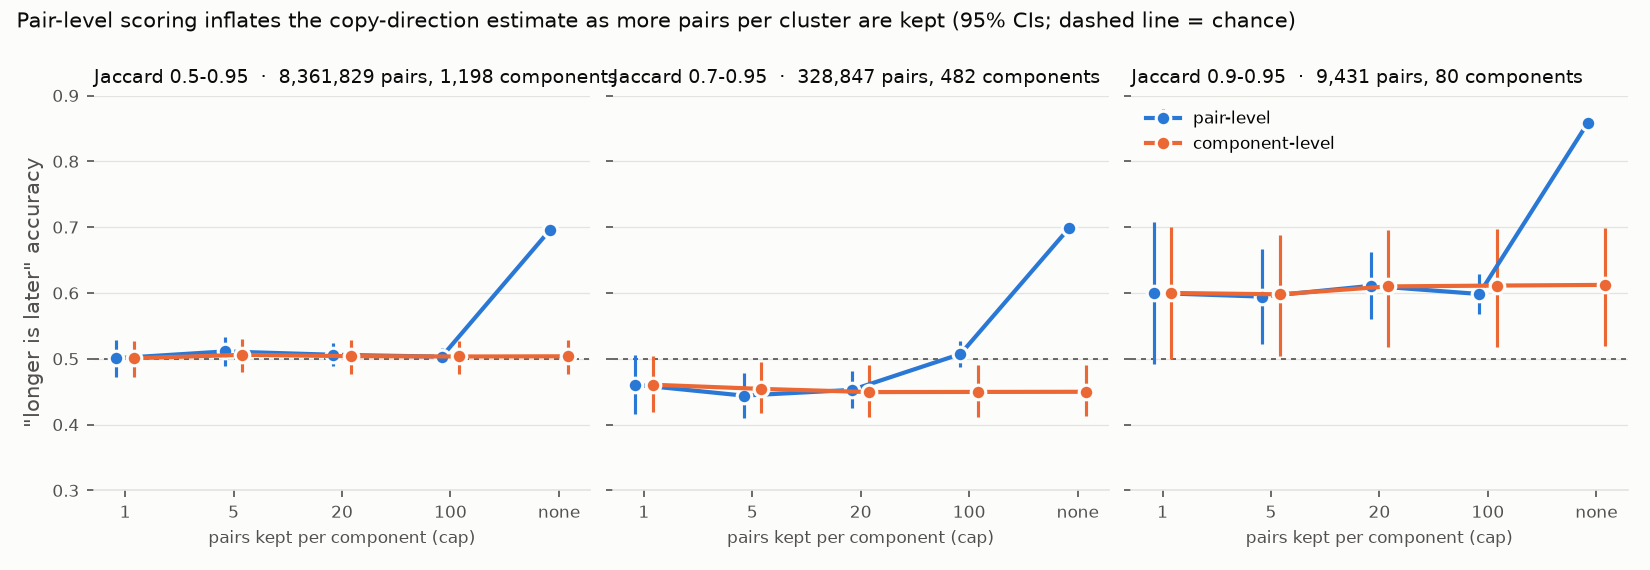
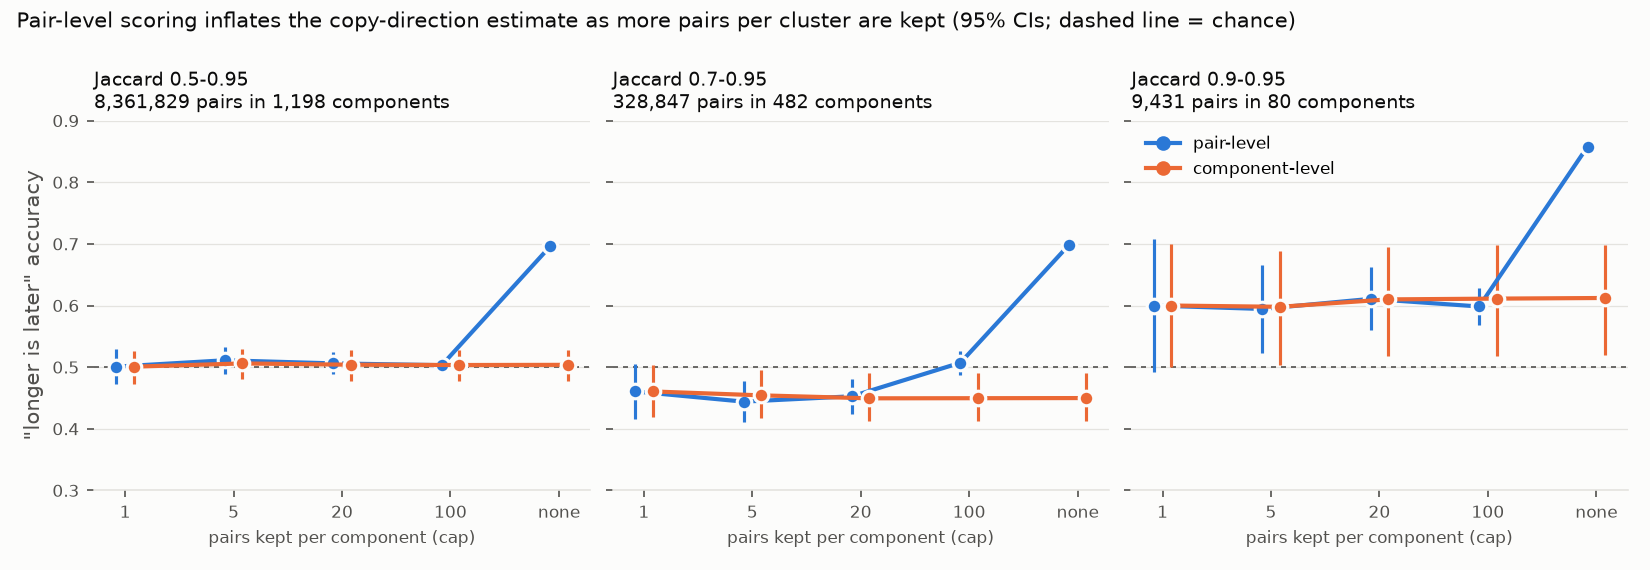
E34, E35, E36, FIG1: results, figures and log entries

diff --git a/experiments/FIG1_naive_vs_proper.py b/experiments/FIG1_naive_vs_proper.py
@@ -14,6 +14,7 @@ from __future__ import annotations
 
 import json
 import sys
+import textwrap
 from pathlib import Path
 from typing import Any
 
@@ -53,13 +54,13 @@ def panel(ax, title: str, ylabel: str, items: list[tuple[str, str, float, list[f
     """
     ax.set_facecolor(C_SURFACE)
     ax.axhline(0.5, color=C_TEXT2, linewidth=0.8, linestyle=(0, (3, 3)))
-    ax.text(1.45, 0.5, "chance", fontsize=7, color=C_TEXT2, va="bottom", ha="right")
+    ax.text(-0.45, 0.505, "chance", fontsize=7, color=C_TEXT2, va="bottom", ha="left")
     for x, (lab, sub, est, ci, col) in enumerate(items):
         ax.errorbar([x], [est], yerr=[[est - ci[0]], [ci[1] - est]], color=col, marker="o", markersize=9,
                     markeredgecolor=C_SURFACE, markeredgewidth=1.5, elinewidth=2, capsize=0)
         ax.text(x + 0.08, est, f"{est:.3f}\n[{ci[0]:.3f}, {ci[1]:.3f}]", fontsize=7.5, color=C_TEXT2, va="center")
     ax.set_xticks(range(len(items)), [f"{lab}\n{sub}" for lab, sub, *_ in items], fontsize=7.5, color=C_TEXT2)
-    ax.set_xlim(-0.5, len(items) - 0.5 + 0.5)
+    ax.set_xlim(-0.5, len(items) - 0.5 + 0.4)
     ax.set_ylim(0.3, 1.02)
     ax.set_ylabel(ylabel, color=C_TEXT2, fontsize=9)
     ax.set_title(title, loc="left", fontsize=10, color=C_TEXT)
@@ -69,7 +70,7 @@ def panel(ax, title: str, ylabel: str, items: list[tuple[str, str, float, list[f
     for s in ("top", "right", "left"):
         ax.spines[s].set_visible(False)
     ax.spines["bottom"].set_color(C_GRID)
-    ax.text(0.0, -0.32, note, transform=ax.transAxes, fontsize=7, color=C_TEXT2, va="top")
+    ax.text(0.0, -0.30, textwrap.fill(note, 80), transform=ax.transAxes, fontsize=7, color=C_TEXT2, va="top")
 
 
 def main() -> None:
@@ -78,24 +79,25 @@ def main() -> None:
     rows = {str(r["cap"]): r for r in e34["grid"]["0.5-0.95"]}
     naive_d, proper_d = rows["none"], rows["20"]
     m37, m38 = e37["metrics"]["gbt"], e38["feature_sets"]["a_full"]["pooled"]
-    fig, axes = plt.subplots(1, 2, figsize=(11, 4.6), facecolor=C_SURFACE)
+    fig, axes = plt.subplots(1, 2, figsize=(11, 5.6), facecolor=C_SURFACE)
     panel(axes[0], "Copy direction: \"longer post is later\"", "pairwise accuracy",
-          [("Naive", f"pair-level, {naive_d['pairs']:,} pairs", naive_d["pair_level"]["accuracy"], naive_d["pair_level"]["ci"], C_NAIVE),
-           ("Cluster-aware", f"component-level, {proper_d['components']:,} components",
+          [("Naive", f"pair-level\n{naive_d['pairs']:,} pairs", naive_d["pair_level"]["accuracy"], naive_d["pair_level"]["ci"], C_NAIVE),
+           ("Cluster-aware", f"component-level\n{proper_d['components']:,} components",
             proper_d["component_level"]["macro"], proper_d["component_level"]["ci"], C_PROPER)],
           f"Known null (times permuted within clusters, {e35['draws']:,} draws): naive analysis 'significant' in "
-          f"{100 * e35['pair_level']['false_positive_rate']:.1f}% of draws,\ncluster-aware in "
+          f"{100 * e35['pair_level']['false_positive_rate']:.1f}% of draws, cluster-aware in "
           f"{100 * e35['component_level']['false_positive_rate']:.1f}% (nominal 5%).")
     panel(axes[1], "Coordination monitor (metadata only)", "AUROC",
-          [("Naive", "E37: unmatched activity, unbalanced split", m37["auroc"], m37["auroc_ci"], C_NAIVE),
-           ("Cluster-aware", "E38: matched activity, grouped 5-fold CV", m38["auroc"], m38["auroc_ci"], C_PROPER)],
+          [("Naive", "E37: unmatched activity,\nunbalanced split", m37["auroc"], m37["auroc_ci"], C_NAIVE),
+           ("Cluster-aware", "E38: matched activity,\ngrouped 5-fold CV", m38["auroc"], m38["auroc_ci"], C_PROPER)],
           f"Recall at 1% FPR: naive {m37['recall_at_1pct_fpr']:.2f}, cluster-aware {m38['recall_at_1pct_fpr']:.2f}. "
-          f"Cluster-aware CV had only {e38['counts']['cv_coordinated']} coordinated authors;\n"
+          f"Cluster-aware CV had only {e38['counts']['cv_coordinated']} coordinated authors; "
           f"on the held-out large components ({e38['counts']['held_out_coordinated']:,} coordinated) "
           f"AUROC was {e38['feature_sets']['a_full']['held_out']['auroc']:.3f}.")
     fig.suptitle("Naive evaluation of clustered agent text overstates both results (95% CIs)",
                  x=0.01, ha="left", fontsize=11, color=C_TEXT)
-    fig.tight_layout(rect=(0, 0.04, 1, 0.97))
+    fig.tight_layout(rect=(0, 0.02, 1, 0.97))
+    fig.subplots_adjust(bottom=0.30, wspace=0.35)
     FIGURES_DIR.mkdir(parents=True, exist_ok=True)
     fig.savefig(FIGURES_DIR / "FIG1_naive_vs_proper.png", dpi=150, facecolor=C_SURFACE)
     print("figures/FIG1_naive_vs_proper.png")

diff --git a/experiments/E34_inflation_curve.py b/experiments/E34_inflation_curve.py
@@ -84,7 +84,7 @@ def plot_curve(windows: dict[str, list[dict[str, Any]]]) -> str:
         ax.set_xticks(x, labels)
         ax.set_xlabel("pairs kept per component (cap)", color=C_TEXT2, fontsize=8)
         comps = rows[-1]["components"]
-        ax.set_title(f"Jaccard {wlab}  ·  {rows[-1]['pairs']:,} pairs, {comps:,} components",
+        ax.set_title(f"Jaccard {wlab}\n{rows[-1]['pairs']:,} pairs in {comps:,} components",
                      loc="left", fontsize=9, color=C_TEXT)
         ax.tick_params(colors=C_TEXT2, labelsize=8)
         ax.grid(axis="y", color=C_GRID, linewidth=0.6)
@@ -94,7 +94,10 @@ def plot_curve(windows: dict[str, list[dict[str, Any]]]) -> str:
         ax.spines["bottom"].set_color(C_GRID)
     axes[0].set_ylabel('"longer is later" accuracy', color=C_TEXT2)
     axes[0].set_ylim(0.3, 0.9)
-    axes[-1].legend(frameon=False, fontsize=8, loc="upper left")
+    from matplotlib.lines import Line2D
+    handles = [Line2D([], [], color=C_PAIR, marker="o", linewidth=2, label="pair-level"),
+               Line2D([], [], color=C_COMP, marker="o", linewidth=2, label="component-level")]
+    axes[-1].legend(handles=handles, frameon=False, fontsize=8, loc="upper left")
     fig.suptitle("Pair-level scoring inflates the copy-direction estimate as more pairs per cluster are kept "
                  "(95% CIs; dashed line = chance)", x=0.01, ha="left", fontsize=10, color=C_TEXT)
     fig.tight_layout()

diff --git a/EXPERIMENT_LOG.md b/EXPERIMENT_LOG.md
@@ -755,12 +755,50 @@ Global seed: 42.
   (effective n); CI-width ratio = component width / pair width. Headline figure:
   figures/E34_inflation_curve.png, pair-level vs component-level estimate against cap,
   one panel per window.
-- Code: experiments/E34_inflation_curve.py, src/clusters.py @ (filled after commit)
+- Code: experiments/E34_inflation_curve.py, src/clusters.py @ 01d35b4 (figure titles and
+  legend fixed afterwards and the figure redrawn from the saved results; numbers unchanged)
 - Params: windows {0.5, 0.7, 0.9}-0.95; caps {1, 5, 20, 100, none}; 1,000 component-bootstrap
   resamples; seed 42.
-- Results:
-- Interpretation:
-- Decision / next step:
+- Results: (results/E34_inflation_curve.json, figures/E34_inflation_curve.png)
+  Check: cap "none" at 0.5-0.95 reproduces E31's pair-level accuracy (0.6960842); 1,396,762
+  length ties; no pairs with equal times. Pair bootstrap (200) CI 0.69578 - 0.69640 vs Wald
+  0.69577 - 0.69640.
+
+  | window | cap | pairs | components | pair-level acc [Wald CI] | component macro [bootstrap CI] | inflation (pts) | CI width ratio |
+  |---|---|---|---|---|---|---|---|
+  | 0.5-0.95 | 1 | 1,198 | 1,198 | 0.501 [0.473, 0.529] | 0.501 [0.473, 0.527] | 0.0 | 1.0 |
+  | 0.5-0.95 | 5 | 2,060 | 1,198 | 0.511 [0.490, 0.533] | 0.506 [0.480, 0.530] | 0.5 | 1.1 |
+  | 0.5-0.95 | 20 | 3,029 | 1,198 | 0.506 [0.488, 0.524] | 0.504 [0.478, 0.528] | 0.2 | 1.4 |
+  | 0.5-0.95 | 100 | 6,063 | 1,198 | 0.503 [0.491, 0.516] | 0.504 [0.477, 0.528] | 0.0 | 2.0 |
+  | 0.5-0.95 | none | 8,361,829 | 1,198 | 0.696 [0.696, 0.696] | 0.504 [0.477, 0.528] | 19.2 | 81.0 |
+  | 0.7-0.95 | 1 | 482 | 482 | 0.461 [0.416, 0.505] | 0.461 [0.419, 0.504] | 0.0 | 1.0 |
+  | 0.7-0.95 | 5 | 831 | 482 | 0.444 [0.410, 0.478] | 0.454 [0.417, 0.495] | -1.0 | 1.2 |
+  | 0.7-0.95 | 20 | 1,206 | 482 | 0.453 [0.425, 0.481] | 0.449 [0.412, 0.490] | 0.3 | 1.4 |
+  | 0.7-0.95 | 100 | 2,504 | 482 | 0.507 [0.488, 0.527] | 0.450 [0.412, 0.490] | 5.8 | 2.0 |
+  | 0.7-0.95 | none | 328,847 | 482 | 0.698 [0.697, 0.700] | 0.450 [0.412, 0.490] | 24.8 | 24.7 |
+  | 0.9-0.95 | 1 | 80 | 80 | 0.600 [0.493, 0.707] | 0.600 [0.500, 0.700] | 0.0 | 0.9 |
+  | 0.9-0.95 | 5 | 180 | 80 | 0.594 [0.523, 0.666] | 0.598 [0.504, 0.688] | -0.3 | 1.3 |
+  | 0.9-0.95 | 20 | 352 | 80 | 0.611 [0.560, 0.662] | 0.610 [0.518, 0.695] | 0.1 | 1.7 |
+  | 0.9-0.95 | 100 | 1,016 | 80 | 0.598 [0.568, 0.629] | 0.611 [0.518, 0.698] | -1.3 | 3.0 |
+  | 0.9-0.95 | none | 9,431 | 80 | 0.858 [0.851, 0.865] | 0.612 [0.519, 0.699] | 24.6 | 12.7 |
+
+  Secondary (0.5-0.95 with E32's template filter; 651 components / 9,167 pairs dropped;
+  547 components): cap 1 / 5 / 20 / 100 / none pair-level 0.492 / 0.495 / 0.505 / 0.507 /
+  0.696, macro 0.492 / 0.494 / 0.497 / 0.496 / 0.497; inflation at none 19.9 points; CI
+  width ratio 117.0.
+  Criterion: material (19.2 >= 5 points).
+- Interpretation: Inflation is material in every window: 19.2 to 24.8 points at cap
+  "none", with CIs 12.7 to 81 times too narrow. The curve is a step, not a gradual rise.
+  At caps up to 100, pair-level and component-level estimates nearly coincide; the jump
+  appears only when large components contribute all their pairs. A few big clusters with
+  a consistent length pattern produce the whole "effect", and the effective sample size
+  is the component count (80 to 1,198), not the pair count (9,431 to 8.4M). The 0.9-0.95
+  window gives the highest component-level estimate (0.61, CI 0.52 - 0.70) from only 80
+  components; this was not pre-registered as a hypothesis and is not claimed. The
+  hypothesis that the gap grows smoothly with the cap was wrong: it is near zero until
+  the cap is removed (except 0.7-0.95 at cap 100, 5.8 points).
+- Decision / next step: Supports the evaluation lesson. Headline figure produced. No
+  further dating analysis (final scope).
 
 ### E35 - Null simulation: false-positive rate of naive evaluation  (2026-11-08 00:50 IST)
 - Question: Under a known null that keeps the real cluster structure, how often does
@@ -780,11 +818,26 @@ Global seed: 42.
   resamples); significant if the CI excludes 0.5. Pairs with equal permuted times are
   dropped in that draw. False-positive rates are reported with Wilson 95% CIs, along with
   the spread of each estimate across draws.
-- Code: experiments/E35_null_simulation.py, src/clusters.py @ (filled after commit)
+- Code: experiments/E35_null_simulation.py, src/clusters.py @ 01d35b4 (results file stamped
+  378f8c9: it ran in the same chain after E34, after an unrelated log/figure commit; E35
+  code unchanged)
 - Params: 1,000 draws; Wald CI (pair-level); 1,000 component-bootstrap resamples; seed 42 + r.
-- Results:
-- Interpretation:
-- Decision / next step:
+- Results: (results/E35_null_simulation.json)
+
+  | analysis | significant draws / 1,000 | false-positive rate [Wilson 95% CI] | estimate across draws: mean (sd) [2.5-97.5%] |
+  |---|---|---|---|
+  | pair-level, 8,361,829 pairs, Wald CI | 863 | 0.863 [0.840, 0.883] | 0.4999 (0.0019) [0.4961, 0.5036] |
+  | component-level, cap 20 (3,029 pairs, 1,198 components) | 53 | 0.053 [0.041, 0.069] | 0.5005 (0.0127) [0.4762, 0.5251] |
+
+  Pairs with equal permuted times per draw: mean 1.18, max 7. Criterion: naive
+  miscalibrated (0.863 > 0.10 while 0.053 <= 0.10).
+- Interpretation: Under a null that keeps the real cluster structure and removes any
+  order signal, naive pair-level analysis declares a significant "longer is later"
+  effect in 86% of draws. The estimate itself is unbiased (mean 0.4999), but it varies
+  across draws (sd 0.0019) far more than the Wald CI assumes (its full width at this n is
+  about 0.0006, from E34). Component-level analysis is close to nominal (5.3%).
+- Decision / next step: Supports the evaluation lesson: in clustered agent text,
+  pair-level significance is mostly a false positive. Feeds FIG1.
 
 ### E36 - Frozen replication script  (2026-11-08 00:50 IST)
 - Question: Can the E31/E32 pipeline be packaged as one frozen script that takes any
@@ -807,10 +860,29 @@ Global seed: 42.
   reproduction check. Run only on the Moltbook table; not run on any other corpus.
 - Config SHA-256 (configs/E36_pipeline.json, LF line endings enforced by .gitattributes):
[1 lines of base64/hex data omitted]
-- Code: experiments/E36_replication.py, configs/E36_pipeline.json @ (filled after commit)
-- Results:
-- Interpretation:
-- Decision / next step:
+- Code: experiments/E36_replication.py, configs/E36_pipeline.json @ 01d35b4 (results stamped
+  378f8c9-dirty: the run started after an unrelated commit, and the E34 plotting function
+  had uncommitted edits when results were saved; E36 code and config unchanged)
+- Results: (results/E36_replication_moltbook.json)
+  Config SHA-256 in results: 5ac6686ab5779f23bce7f0c296358873e15f8abfd0c33403ce133ae395e8f017
+  (matches the value recorded above).
+  Reproduction check: 63 items compared (E31 counts and pair-level n / accuracy / CI for
+  (a), (b), (c); E32 counts and component-level n / macro / CI / micro for (a), (b), (i),
+  (ii)); maximum absolute difference 0.0; passes at 1e-9.
+  Pair-level (8,361,829 pairs): (a) 0.5000, (b) 0.6961, (c) 0.5902 (identical to E31).
+  New, not part of the check: pair-level on a 200,000-pair seeded subsample: (i) extension
+  0.5737 [0.5714, 0.5758], 129,778 ties; (ii) insertion vs deletion 0.5890 [0.5866,
+  0.5911], 103,989 ties; component-level (c) containment macro 0.5069 [0.4710, 0.5415] on
+  547 components.
+  Component-level (547 components, 1,767 pairs): (a) 0.5105, (b) 0.4964, (i) 0.5081,
+  (ii) 0.5055 (identical to E32).
+- Interpretation: The frozen pipeline reproduces E31 and E32 exactly from the standard
+  table alone, so it is ready to be handed over. The new pair-level edit-cue numbers show
+  the same inflation pattern: (ii) is 58.9% at pair level and 50.6% at component level.
+- Decision / next step: experiments/E36_replication.py with configs/E36_pipeline.json
+  (SHA-256 above) is the frozen pipeline. Not run on any other corpus in this repo; the
+  collusion.wiki run is left to the user (src/adapters/collusion_wiki.py maps the export
+  to the standard table).
 
 ### FIG1 - Naive vs proper estimates, dating and monitor tasks  (2026-11-08 00:50 IST)
 - What: one two-panel figure built only from saved results. Dating: "longer is later"
@@ -822,5 +894,9 @@ Global seed: 42.
 - Change after E38 results, presentation only: the monitor panel note also states the
   number of coordinated authors in E38's cross-validation (13) and the held-out AUROC,
   so the cluster-aware point is not read without that context.
-- Code: experiments/FIG1_naive_vs_proper.py @ (filled after commit); output
-  figures/FIG1_naive_vs_proper.png.
+- Code: experiments/FIG1_naive_vs_proper.py; output figures/FIG1_naive_vs_proper.png
+  (layout adjusted after the first render for overlapping labels; values unchanged).
+- Result: dating panel: naive 0.696 [0.696, 0.696] vs cluster-aware 0.504 [0.478, 0.528];
+  null false-positive rates 86.3% vs 5.3%. Monitor panel: naive AUROC 0.960 [0.955, 0.998]
+  vs cluster-aware 0.691 [0.563, 0.821] (13 coordinated authors in CV; held-out AUROC
+  0.529); recall at 1% FPR 0.86 vs 0.08. All values read from results/E34, E35, E37, E38.
